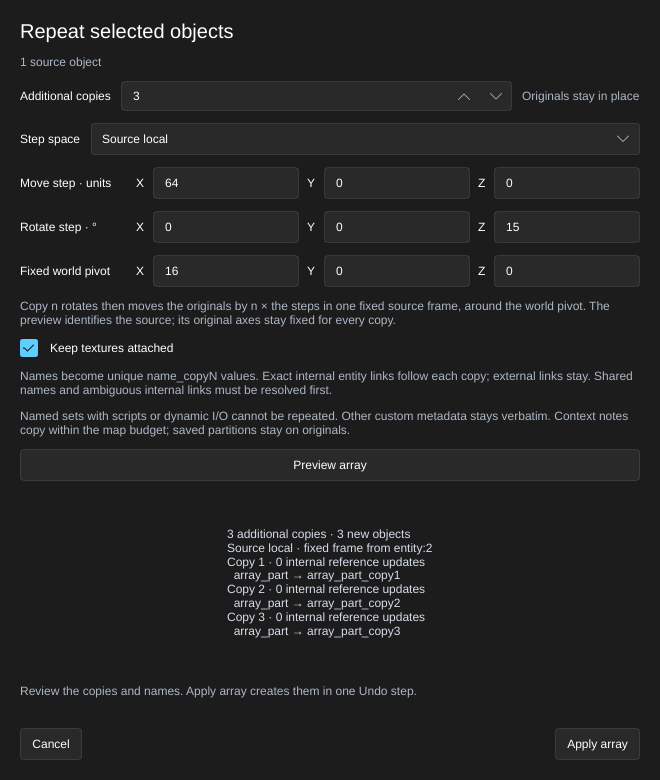
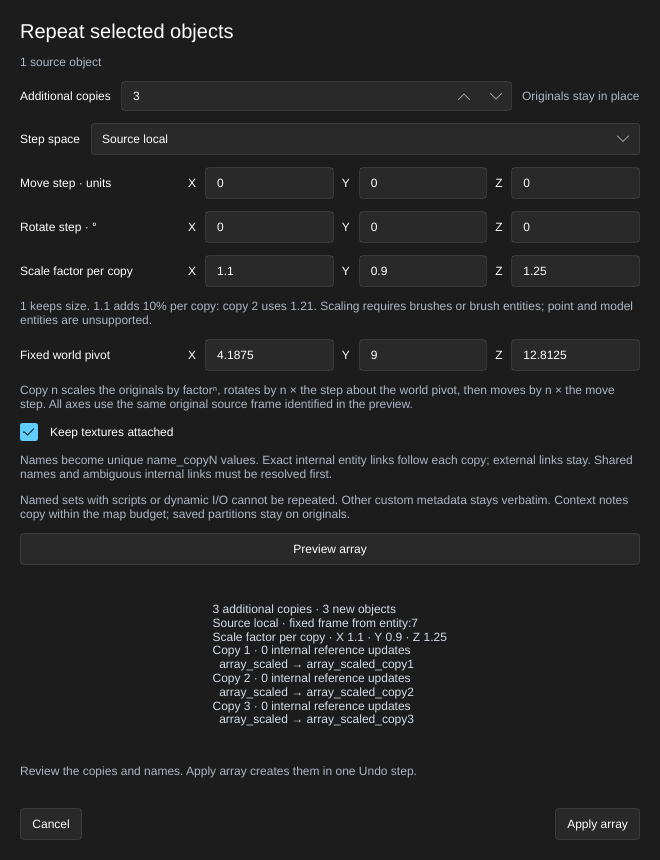
Complete shared authoring and preview integration - Correct owner-aware fixtures and preserve explicit Cancel - Share private engine mounts for native physics checks - Refresh feature manuals, status and showcase images

diff --git a/scripts/validate_prop_shadows_native.py b/scripts/validate_prop_shadows_native.py
@@ -44,7 +44,7 @@ def horizontal_pose(bounds):
 
 
 def compile_cases(args):
-    private = runtime.private_game(args.game_dir.resolve(), args.output / "fixture")
+    private = runtime.private_game(args.game_dir.resolve(), args.output / "fixture", engine_physics=True)
     metadata = json.loads(subprocess.check_output([
         str(args.fixture_helper.resolve()),
         str(args.game_dir.resolve() / "cstrike/gameinfo.txt"),
@@ -106,8 +106,12 @@ def worker(args):
     args.observe_seconds = 24
     runtime.capture_worker(args, "setpos -160 -160 8; setang 15 45 0; mat_fullbright")
     text = (private / "hammerr-runtime.log").read_text(errors="replace")
-    assert "sv_lan" in text and "= 1" in text, text[-4000:]
-    assert "Error Vertex File" not in text and "Error Index File" not in text and "Error Material" not in text, text[-4000:]
+    assert '"sv_lan" = "1"' in text, text[-4000:]
+    assert "Error Vertex File" not in text and "Error Index File" not in text, text[-4000:]
+    metadata = json.loads((args.output.parent / "fixture.json").read_text())
+    for material in metadata["materials"]:
+        name = material.removeprefix("materials/").removesuffix(".vmt")
+        assert f'error: material "{name.lower()}"' not in text.lower(), name
 
 
 def main():

diff --git a/scripts/validate_native_runtime.py b/scripts/validate_native_runtime.py
@@ -44,8 +44,16 @@ function HammeRRThink() {
 """
 
 
-def private_game(root, output, bsp=None):
+def private_game(root, output, bsp=None, *, engine_physics=False):
     game = output / "cstrike"
+    if engine_physics:
+        output.mkdir(parents=True, exist_ok=True)
+        library = output / "bin"
+        expected = (root / "bin").resolve(strict=True)
+        if not library.exists():
+            library.symlink_to(expected, target_is_directory=True)
+        if library.resolve(strict=True) != expected:
+            raise RuntimeError("Private physics fixture has an unexpected engine library path")
     for directory in [
         game / "maps",
         game / "cfg",

diff --git a/scripts/validate_bump_lighting.py b/scripts/validate_bump_lighting.py
@@ -36,11 +36,7 @@ def texture(pixels, size=32, normal=False):
 
 
 def assets(args):
-    game = runtime.private_game(args.game_dir.resolve(), args.output / "source-game")
-    library = game.parent / "bin"
-    if not library.exists():
-        library.symlink_to(args.game_dir.resolve() / "bin", target_is_directory=True)
-    assert library.resolve() == args.game_dir.resolve() / "bin"
+    game = runtime.private_game(args.game_dir.resolve(), args.output / "source-game", engine_physics=True)
     folder = game / "materials/hammerr"
     folder.mkdir(parents=True, exist_ok=True)
     (folder / "white.vtf").write_bytes(texture(bytes([255] * 32 * 32 * 4)))

diff --git a/scripts/validate_physics_surfaces.py b/scripts/validate_physics_surfaces.py
@@ -12,10 +12,7 @@ from validate_visibility import ROOM
 
 
 def assets(args):
-    game = runtime.private_game(args.game_dir.resolve(), args.output / "source-game")
-    library = game.parent / "bin"
-    if not library.exists():
-        library.symlink_to(args.game_dir.resolve() / "bin", target_is_directory=True)
+    game = runtime.private_game(args.game_dir.resolve(), args.output / "source-game", engine_physics=True)
     folder = game / "materials/hammerr"
     folder.mkdir(parents=True, exist_ok=True)
     for name in ["default", "ice", "rubber"]:

diff --git a/crates/render/src/models/tests.rs b/crates/render/src/models/tests.rs
@@ -180,6 +180,7 @@ fn failed_material_resolution_discards_old_bindings_and_repairs_with_the_same_ge
     entity.properties.set("origin", "0 0 0");
     let instance = Instance::new(&entity, current).unwrap();
     let mut vmf = Document::empty().vmf().clone();
+    vmf.world.properties.set("skyname", "");
     vmf.entities.push(entity.clone());
     let mut display = crate::MaterialLibrary::default();
     let scene = crate::SceneMesh::build_with_models(

diff --git a/crates/map-core/src/query.rs b/crates/map-core/src/query.rs
@@ -505,7 +505,7 @@ mod tests {
                     !solid
                         .sides
                         .iter()
-                        .all(|side| side.material.starts_with("tools/"))
+                        .all(|side| side.material.to_ascii_lowercase().starts_with("tools/"))
                 })
                 .unwrap()
                 .hit

diff --git a/crates/editor/src/working_region_ui.rs b/crates/editor/src/working_region_ui.rs
@@ -223,7 +223,7 @@ mod tests {
             "Use selection bounds",
             "Clear working region",
             "Apply",
-            "Close",
+            "Cancel",
         ] {
             crate::ui::tests::assert_dialog_button_visible(&controller.window, label);
         }

diff --git a/crates/map-core/src/repeat/tests.rs b/crates/map-core/src/repeat/tests.rs
@@ -1,5 +1,8 @@
 use super::*;
-use crate::context::{Note, Scope};
+use crate::{
+    BrushGeometry,
+    context::{Note, Scope},
+};
 use source_formats::vmf::Connection;
 
 fn options(count: u32) -> Options {

diff --git a/docs/status.md b/docs/status.md
@@ -22,14 +22,17 @@ HammeRR is in active development.
 | Overlapping selection | Alt+click and shared MCP operations cycle depth-ordered objects, brush owners and native groups, with model triangle picking and the same visibility rules as ordinary selection. The nearest 64 distinct hits are available; persistent selection filters and separate solid/group modes are planned. |
 | Polygon brushes | Convex and simple concave outlines, grid/exact corners, axis-aligned extrusion, materials and shared previews/Undo work. Oblique drawing planes and holes are planned. |
 | Surface placement | Shared floor/ceiling and picked-surface previews, mesh/terrain contact, normal alignment, offsets and one-step Undo work. Independent object settling, overlap resolution and physics placement are planned. |
-| Repeated placement | World and source-local translation/rotation arrays share previews, one captured original frame, unique generated names, checked internal-reference remapping and one-step Undo. Uncertain internal links and named source sets with scripts or dynamic I/O reject; scale arrays and surface sprinkle are unavailable. |
+| Repeated placement | World and source-local translation/rotation/brush-scale arrays share previews, one captured original frame, unique generated names, checked internal-reference remapping and one-step Undo. Uncertain internal links and named source sets with scripts or dynamic I/O reject; point/model scale arrays and surface sprinkle are unavailable. |
 | Hollow, carve and clip | Works for brushes. Terrain is rejected. |
 | Merge brushes | Guarded previews join 2–16 brushes into one convex brush, retaining outer face settings and one-step Undo. World brushes or children of one brush entity can merge; gaps, concave unions, mixed owners and terrain reject. |
 | Vertices, edges and faces | Brush component editing works. Terrain has separate vertex controls. |
-| Flat partitions | Works. Inward extrusion, free-form dividing lines and per-piece texture axes, fit and justification are planned. |
+| Flat partitions | Works. Per-piece materials, scale/shift/rotation, Fit and horizontal/vertical justification share owned plans and Undo. Inward extrusion, free-form dividing lines and new texture axes are planned. |
 | Materials and textures | Works. Failed asset discovery and material reads report errors; failed catalogs can be retried after content repairs. |
-| Asset reload (P11) | Partial. **Reload material assets** and MCP refresh cached VMT/VTF display data, sky faces and the material catalog through existing mounts, preserving map data, history and draft geometry. File watching, remounting, running-game caches and broader model/particle refresh remain unavailable. |
-| 2D sky preview | Six mounted static LDR faces render through authored sky surfaces in perspective Textured views, with shared controls and load diagnostics. Axis-aligned texture scale/translation and unequal face sizes work. 3D sky-camera regions, HDR, fog, exposure, animation and compiled visibility fidelity are unavailable. |
+| Asset reload (P11) | Partial. **Reload material assets** and MCP refresh cached VMT/VTF display data, sky faces and the material catalog through existing mounts, preserving map data, history and draft geometry. Cached model material candidates are resolved again without replacing geometry; particle definitions have a separate reload. File watching, remounting, FGD refresh and running-game caches remain unavailable. |
+| Working region | One temporary whole-object box shares desktop/MCP display and spatial filtering, paginated visibility reasons and reachable Clear. Saved visibility, source/history and build scope stay independent. Draw distance and arbitrary filter rules are unavailable. |
+| Fog preview | Explicit authored controller choice and static linear nonradial fog work in perspective Textured views. Invalid shared choices report issues without fog; unsupported modes, transitions, runtime I/O and native visual parity remain outside the preview. |
+| Particle effects | Active mounted manifests and binary-2/pcf-1 definitions support search, metadata inspection, reload and owned effect-name choices. Particle animation, viewport rendering and map-specific manifests are unavailable. |
+| 2D sky preview | Six mounted static LDR faces render through authored sky surfaces in perspective Textured views, with shared controls and load diagnostics. Axis-aligned texture scale/translation and unequal face sizes work. 3D sky-camera regions, HDR, sky fog, exposure, animation and compiled visibility fidelity are unavailable. |
 | Entities, connections and renaming | Works. |
 | Map checks | Geometry, IDs, textures, entity logic, asset paths, face-linked material/texture errors, terrain metadata and authored spawn clearance against static brushes/world/detail terrain. Models, compiler LOD changes, runtime placement, objectives, full dependencies and engine limits are planned. |
 | Terrain (displacements) | Creation, chosen corners, resolution edits, sculpting, blend paint, full/half-edge and corner-only sewing across grid resolutions and collision/border-shading controls and per-triangle walkability/buildability work with guarded previews and Undo. Viewport center picking and framing follow displaced terrain. Native triangle subsets retain checks across surfaces, with viewport picks, yellow outlines and framing. Retained triangle unions or exact checked vertices can mask sculpting and blend edits, with cyan vertex guides, picking, framing and box selection. Volume/marquee matching follows actual sheets, and volume boxes select native triangle subsets. Indexed paint/texture strokes also pick displaced surfaces instead of parent boxes. Compatible mixed-power full and whole-to-half edges compile with native LOD masks and snapping. Live sculpt/blend strokes share bounded paths, masks, radius guides, owned review and one-step Undo. Exact world XYZ vertex movement and viewport axis/plane/screen handles share owned previews, masks, grid snapping and Undo. Connected full-edge base-cage subdivision generates editable rounded grids. Half-edge cage subdivision, other partial spans and restricted-topology remapping remain planned. |
@@ -45,18 +48,18 @@ HammeRR is in active development.
 | Compile regions | One native axis-aligned region, shared preview/review/cancel, Undo and save/reopen; whole brushes/terrain, contained world water, complete imported overlays and contained portals/windows/occluders; six black sealing slabs, retained sun/water controls and frozen build scope; effective imported-box framing/guides | Multiple active regions, crossing terrain/water/helpers, runtime-model terrain, detail/model water, slime, overlay transitions, instances and visclusters; every overlay target and window model must remain available; plural records need explicit Clear before replacement |
 | Build recipes | Fast preview and Final lighting presets, up to 32 persistent named custom settings, shared create/edit/delete/apply controls and recipe identity captured at build start | Arbitrary commands, extra or reordered compiler stages and output-path recipes; the compiler's existing limits still apply |
 | Visibility | Fast conservative sets or Detailed portal separator clipping, with checked apertures and bounded parallel portal-facing rows and source flow; authored finite hint priority and remaining open-leaf cuts; visible/audible sets, sky visibility, areaportals, distance-fading windows and checked native occluder polygons/indices/areas from up to sixteen brushes with separated world bounds and active/deactivate/activate/toggle culling | Touching/overlapping occluder CSG, area transitions and broader map coverage |
-| Lighting | Fullbright; Direct LDR for static, switchable and animated point/spot lights, one sun and sky ambient; directional normal-map lightmaps, soft sun, Fast/Balanced/Detailed sampling, percentage falloff, opaque brush/terrain/static-prop mesh shadows across direct, sky, bounced and ambient rays, terrain, pivot-aware direct brush-entity maps with self shadows, scoped world/model brush groups or optional angle smoothing, including partial-edge junctions and up to four style-preserving diffuse world/terrain-source bounces into world/model receivers; conservative point/spot visibility and exact-range culling | Adaptive sampling, HDR, transparent shadows, second-normal-map-only materials, model relighting/reflected sources and baked prop lightmaps |
-| Model ambient | LDR cubes from filtered local world/terrain lightmaps and sky with opaque static-prop mesh occlusion, with up to 1/4/8 safe probes per open leaf by quality; legacy and indexed LDR/HDR data preservation | Adaptive refinement, switching ambient cubes, probes below terrain sheets |
+| Lighting | Fullbright; Direct LDR for static, switchable and animated point/spot lights, one sun and sky ambient; directional normal-map lightmaps, soft sun, Fast/Balanced/Detailed sampling, percentage falloff, opaque brush/terrain/static-prop mesh shadows and requested bounded prop alpha-test cutouts across direct, sky, bounced and ambient rays, terrain, pivot-aware direct brush-entity maps with self shadows, scoped world/model brush groups or optional angle smoothing, including partial-edge junctions and up to four style-preserving diffuse world/terrain-source bounces into world/model receivers; conservative point/spot visibility and exact-range culling | Adaptive sampling, HDR, fractional/translucent shadows, second-normal-map-only materials, model relighting/reflected sources and baked prop lightmaps |
+| Model ambient | LDR cubes from filtered local world/terrain lightmaps and sky with opaque and requested alpha-test static-prop mesh occlusion, with up to 1/4/8 safe probes per open leaf by quality; legacy and indexed LDR/HDR data preservation | Adaptive refinement, switching ambient cubes, probes below terrain sheets |
 | Physics | World, clips, brush entities, water and terrain, using CS:S's own collision library; world/terrain triangle surface properties, per-face brush-model surfaces and vertical platform/prop contact | Blended secondary surface properties, density and compiler-derived masses, rotating/blocking contact and broader moving bodies |
 | Brush entities | Explicit and origin-brush pivots; sliding and rotating doors, rotating brushes, triggers and linear platforms carrying physics props | Rotating/blocking contact and broader behavior coverage and independently rotated initial lighting poses |
 | Water | Flat world water, fog regions, floating objects | Depth and below-water materials, currents, water in detail brushes or brush entities |
 | Cubemaps | Sample positions and sizes | Baked reflections |
-| Static props | Models, transforms, collision, skins, fading, named lighting origins; bounded [opaque LOD0 mesh shadows](prop-shadows.md) with native disabled-shadow flags, selected-material warnings and checked asset failures | Texture-alpha/translucent shadows, per-vertex/per-texel prop lighting, reflected prop sources, animated-prop shadows and exact placement in the BSP tree |
+| Static props | Models, transforms, collision, skins, fading, named lighting origins; bounded [opaque or requested alpha-test LOD0 mesh shadows](prop-shadows.md) with native disabled-shadow flags, selected-material warnings and checked asset failures | Fractional/translucent shadows, per-vertex/per-texel prop lighting, reflected prop sources, animated-prop shadows and exact placement in the BSP tree |
 | Terrain | World/func_detail power 2/3/4 surfaces, collision, matching full-edge and corner-only links, full/half-edge LOD masks/snapping, saved subdivided grids, authored border shading and shared vertex normals | Other fractional spans, half-edge cage subdivision, removed triangles |
-| Overlays | Fit new projections to one world/detail quad or explicitly refit an existing single-face projection on the same entity, with owned previews, material browsing, corner guides and atomic Apply/Cancel; imported world/detail/terrain projections, render order, fades and named accessors | New face bindings, multiple-face/terrain/model creation or refitting, corner handles, viewport material projection, geometry rebinding, transitions and decals |
+| Overlays | Fit new projections to one world/detail quad or explicitly refit/rebind an existing single-face projection on the same entity, with owned previews, material browsing, corner guides and atomic Apply/Cancel; imported world/detail/terrain projections, render order, fades and named accessors | Multiple-face/terrain/model creation or refitting, corner handles, viewport material projection, automatic geometry rebinding, transitions and decals |
 
 ## Next
 
-**Editor:** broader clipboard formats and metadata transfer, free-form flat partitions, inward extrusion, per-piece texture editing, terrain clipping and authoring, broader model formats and poses and broader map checks.
+**Editor:** broader clipboard formats and metadata transfer, free-form flat partitions, inward extrusion, new partition texture axes, terrain clipping and authoring, broader model formats and poses and broader map checks.
 
 **Compiler:** HDR, broader physics collision, broader terrain topology, prop lighting, brush-model overlays and water transitions.

diff --git a/docs/development.md b/docs/development.md
@@ -6,7 +6,7 @@
 
 | Path | Contents |
 | --- | --- |
-| `crates/source-formats` | Valve file formats (VMF, BSP, VPK, VMT, VTF, FGD, MDL, KeyValues) and the game filesystem. |
+| `crates/source-formats` | Valve file formats (VMF, BSP, VPK, VMT, VTF, FGD, MDL, DMX/PCF, KeyValues) and the game filesystem. |
 | `crates/map-core` | Geometry, terrain, the undoable map document, edits and picking. |
 | `crates/render` | The wgpu renderer, materials, camera and offscreen snapshots. |
 | `crates/editor-core` | The shared editing session, application runtime, optional MCP server and `hammerr-headless`. No Slint dependency. |
@@ -118,16 +118,17 @@ python3 -B scripts/validate_headless.py --output /tmp/hammerr-headless-check
 | Area | Scripts |
 | --- | --- |
 | Application startup and shutdown | `headless` (edit/history, save/reopen, compile, lazy graphics and exit recovery; `--desktop-binary` compares both executable tool inventories, and `--baseline` compares a saved `tools/list` array sorted by name) |
-| Viewing and selection | `view_modes`, `saved_views`, `sky_preview`, `volume_selection`, `paint_selection`, `object_picking`, `map_statistics`, `pointfiles` |
+| Viewing and selection | `view_modes`, `saved_views`, `sky_preview`, `volume_selection`, `paint_selection`, `object_picking`, `working_region`, `fog_preview`, `map_statistics`, `pointfiles` |
 | Brushes and transforms | `geometry_tools`, `texture_lock_modes`, `brush_reflection`, `brush_shear`, `transform_display`, `precision_cycles`, `polygon_brushes`, `surface_placement`, `repeat_array` |
 | Hollow, carve, merge and clip | `hollow`, `carving`, `carve_many`, `merge`, `clip_handles` |
 | Vertices, edges and faces | `components`, `component_sources`, `component_picking`, `component_topology`, `component_transforms`, `component_creases`, `weld_texture_attachment`, `split_texture_attachment`, `roof_texture_attachment` |
 | Flat partitions | `component_partitions`, `partition_picking`, `saved_partitions`, `partition_material_metadata`, `partition_materials`, `partition_textures`, `adjusted_partition_ridges`, `boundary_partitions`, `polygon_partitions`, `partition_extrusion`, `partition_visibility` |
 | Materials and textures | `face_lighting`, `material_replacement`, `material_favorites`, `material_reload`, `surface_group`, `texture_strokes`, `texture_chain` |
 | Map checks | `spawn_clearance`, `audit_fixes` |
+| Particle definitions | `particles` (active manifest discovery, bounded binary DMX parsing, metadata, owned choices and retryable errors) |
 | Local preferences | `recent_maps`, `build_recipes` |
 | Compiler | `compile_jobs`, `authored_planes`, `visibility`, `portal_flow`, `parallel_visibility`, `hints`, `sky_visibility`, `origin_brushes`, `cubemap_samples`, `water_metadata`, `direct_lighting`, `bounced_lighting`, `brush_smoothing`, `smoothing_angle`, `spotlights`, `direct_sky`, `shadow_index`, `engine_physics`, `physics_surfaces`, `static_props`, `terrain`, `terrain_creation`, `terrain_normals` |
-| In game | `native_runtime`, `brush_runtime`, `vphysics_backend` |
+| In game | `prop_shadows_native` (optional `--runtime`), `native_runtime`, `brush_runtime`, `vphysics_backend` |
 
 `transform_display` also checks `preview_snap_to_grid`: fractional negative world bounds-minimum anchors, mixed selections, shared texture-lock policy, source/history preservation, Apply/Cancel, aligned no-ops, model-reload cancellation and exact typed transforms with snapping enabled.
 
@@ -595,7 +596,7 @@ python3 -B scripts/validate_overlay_authoring.py --binary target/debug/hammerr-h
 ```
 
 These checks cover real tilted world/detail corners, shared imported projection
-validation, same-binding refit with raw metadata and entity identity retained,
+validation, same-binding refit and explicit destination rebinding with raw metadata and entity identity retained,
 ownership/review, stale source/selection guards, material browsing and read
 errors, Apply/Cancel/Undo and exact shared native output. `--render` captures the
 shared outline; `--runtime` compares a fully MCP-created floor projection with absent
@@ -659,3 +660,55 @@ omit it for GPU-independent checks. No desktop input or game launch is used.
 The shared script `Client.render_result` returns PNG bytes and metadata from one
 render response. `Client.render` continues to save the PNG and return its
 checksum for existing checks.
+
+### Working regions, fog and particle definitions
+
+```sh
+cargo test -p editor-core --features mcp --lib working_region
+cargo test -p editor-core --features mcp --lib fog_
+cargo test -p source-formats --lib particle
+cargo test -p editor-core --features mcp --lib particles
+python3 -B scripts/validate_working_region.py --binary target/debug/hammerr-headless --output /tmp/hammerr-working-region-check --render
+python3 -B scripts/validate_fog_preview.py --binary target/debug/hammerr-headless --gameinfo "/path/to/cstrike/gameinfo.txt" --output /tmp/hammerr-fog-check
+python3 -B scripts/validate_particles.py --binary target/debug/hammerr-headless --output /tmp/hammerr-particles-check
+```
+
+Working-region checks cover whole-owner bounds, authored hiding, model/terrain
+bounds, shared query exclusion, stale guards and unchanged saved source/history
+and synchronous/background BSPs. `--render` compares persistent-renderer output
+before filtering and after Clear. Fog checks compare known-depth pixels with the
+linear-space ramp, disabled and unsupported states, temporary overrides and
+shared settings. Particle checks cover active manifests, definition metadata,
+owned choices, changed-file rejection, reload and failed-load retry.
+
+Software UI checks run on the private testing backend and save captures when
+`HAMMERR_UI_SNAPSHOTS` names an existing directory:
+
+```sh
+cargo test -p editor --bin editor working_region_controls_apply_inspected_bounds_reject_invalid_input_and_clear_empty_view
+cargo test -p editor --bin editor fog_preview_controls_choose_apply_cancel_and_reject_stale_or_unsupported_settings
+cargo test -p editor --bin editor particle_browser_shares_search_review_apply_cancel_and_software_screenshot
+cargo test -p editor --bin editor partition_texture_controls_share_preview_inheritance_keep_cancel_and_undo
+```
+
+The existing `repeat_array`, `partition_textures`, `overlay_authoring` and
+`material_reload` scripts also cover per-copy brush scaling, Fit/Justify,
+explicit overlay rebinding and cached model material-path changes. Model checks
+retain geometry and bounds through path failure/repair and account for held
+asset references within the cache budget.
+
+### Requested static-prop cutout shadows
+
+```sh
+cargo test -p compiler --test prop_shadows
+cargo test -p compiler --lib lighting::props
+cargo build -p compiler --example prop_shadow_fixture
+python3 -B scripts/validate_prop_shadows.py --binary target/debug/hammerr-headless --output /tmp/hammerr-prop-shadow-check
+python3 -B scripts/validate_prop_shadows_native.py --binary target/debug/hammerr-headless --output /tmp/hammerr-prop-cutout-check --runtime
+```
+
+The native fixture copies one mounted fence model and its companions into private
+content, changes the copy's texture-shadow flag and material, and compares opaque
+and alpha-tested builds from unchanged source. Assertions require both newly lit
+and still blocked floor luxels; optional runtime captures use the existing private
+display with `-insecure` and `sv_lan 1`. No installed game asset is modified.

diff --git a/README.md b/README.md
@@ -83,7 +83,7 @@ Setup details, conventions and the full tool list are in [AI agents and MCP](doc
 | Repeated placement |
 | --- |
 | ![Repeated placement array preview and controls](docs/images/repeat-array.png) |
-| Repeat selections in world or source-local axes, then apply all copies in one Undo step. |
+| Repeat selections in world or source-local axes, with brush scale factors and one Undo step. |
 
 [Brushes and transforms →](docs/brushes.md) · [Hollow, carve and clip →](docs/brush-tools.md)
 
@@ -147,6 +147,11 @@ Setup details, conventions and the full tool list are in [AI agents and MCP](doc
 | ![Wireframe view with a light helper](docs/images/wireframe-view.png) | ![Named camera views](docs/images/saved-views.png) |
 | Textured, flat, wireframe, lightmap density and smoothing groups, in every projection. | Name camera positions and jump back to them. They are saved in the map. |
 
+| Working region | Fog preview |
+| --- | --- |
+| ![Working-region bounds and visibility controls](docs/images/working-region.png) | ![Authored fog controller and preview settings](docs/images/fog-preview.png) |
+| Focus the editor on whole objects touching a temporary box, with shared visibility reasons. | Choose an authored controller to preview static linear fog in perspective Textured views. |
+
 | 2D sky preview |
 | --- |
 | ![The selected sky rendered through sky surfaces](docs/images/sky-preview.png) |
@@ -155,6 +160,11 @@ Setup details, conventions and the full tool list are in [AI agents and MCP](doc
 [Editor basics →](docs/basics.md) · [Selecting →](docs/selection.md)
 
 ### Entities and logic
+
+| Particle effects |
+| --- |
+| ![Particle definitions and effect-name choices](docs/images/particle-browser.png) |
+| Search active particle systems, inspect their definitions and choose effects for entities. |
 
 | Connections | Safe renaming |
 | --- | --- |
@@ -219,7 +229,7 @@ Also: a typed inspector with color pickers, brightness sliders and spawn flags; 
 | Native compiler | Play in CS:S |
 | --- | --- |
 | ![Build settings, statistics and diagnostics](docs/images/build-status.png) | ![Soft sun shadows in Counter-Strike: Source](docs/images/soft-sun.png) |
-| Baked light from point lights, spotlights, sun and sky, with soft sun and opaque model shadows, plus CS:S engine physics with world, terrain and brush-model material surfaces, water, cubemaps, static props and terrain. | **Run Map** compiles and launches the game. Builds run in the background and never overwrite good output with a failed one. |
+| Compile playable maps with baked lighting, CS:S engine physics, water, props and terrain. | **Run Map** compiles and launches the game. Builds run in the background and never overwrite good output with a failed one. |
 
 | Named build recipes |
 | --- |
@@ -328,6 +338,11 @@ Also: a typed inspector with color pickers, brightness sliders and spawn flags; 
 | ![Four diffuse bounces beneath a shelf in Counter-Strike: Source](docs/images/four-bounce-on.png) |
 | Add up to four diffuse light bounces from world surfaces and terrain. |
 
+| Static-prop cutout shadows |
+| --- |
+| ![Baked light passing through a fence model's cutout texture](docs/images/prop-shadow-cutouts.png) |
+| Bake shadows through alpha-test cutouts on supported static props. |
+
 | Hint planes |
 | --- |
 | ![Hint face and skip bounds in the editor](docs/images/hint-planes.png) |
@@ -336,7 +351,7 @@ Also: a typed inspector with color pickers, brightness sliders and spawn flags; 
 | Overlays |
 | --- |
 | ![Fitted overlay controls with material preview and source corners](docs/images/overlay-authoring.png) |
-| Fit or refit surface markings on world/detail faces, preserving materials, order, fades and entity links. |
+| Fit, refit or explicitly rebind markings on world/detail faces while retaining settings and entity links. |
 
 [Overlays →](docs/overlays.md)
 

diff --git a/docs/README.md b/docs/README.md
@@ -19,22 +19,25 @@ New to HammeRR? Read [Getting started](getting-started.md) and [Editor basics](b
 | [Brushes and transforms](brushes.md) | Drawing brushes, handles, exact transforms, mirror, shear, brush shapes |
 | [Polygon brushes](polygon-brushes.md) | Drawing convex or concave outlines and extruding editable brushes |
 | [Surface placement](placement.md) | Dropping groups to floors or ceilings, picking targets, normal alignment and offsets |
-| [Repeated placement](repeated-placement.md) | Previewing translation and rotation arrays with copied names and internal links |
+| [Repeated placement](repeated-placement.md) | Previewing translation, rotation and brush-scale arrays with copied names and internal links |
 | [Hollow, carve and clip](brush-tools.md) | Turning solids into rooms, subtracting shapes, cutting brushes with a plane |
 | [Merge brushes](merge.md) | Joining brushes whose combined volume is convex, with retained outer face settings |
 | [Vertices, edges and faces](components.md) | Moving, scaling, rotating, welding, splitting and roof ridges |
 | [Flat partitions](partitions.md) | Dividing a face into pieces to raise, extrude or restyle them |
 | [Materials and textures](textures.md) | Material browser, texture editing, sampling, wrapping, painting, replacement, face lighting |
+| [Working region](working-region.md) | Temporary whole-object display bounds and visibility reasons |
+| [Fog preview](fog.md) | Choosing an authored static fog controller for perspective Textured views |
 | [2D sky preview](sky.md) | Previewing the selected mounted sky through authored sky surfaces |
 | [Terrain](terrain.md) | Creating, sculpting, blending, sewing, shading and selecting terrain triangles |
 | [Overlays](overlays.md) | Compiling imported surface projections, material, render order and distance fading |
 | [Models](models.md) | Static mesh previews, skin materials, bounds, picking and model inspection |
+| [Particle effects](particles.md) | Active manifest definitions, metadata and guarded effect-name choices |
 | [Sounds](sounds.md) | Sound files and script names, audition, volume and entity assignment |
 | [Entities and logic](entities.md) | Placing entities, lights, brush entities, inputs/outputs, safe renaming, editing many entities |
 | [Organizing and checking maps](map-tools.md) | Finding objects, visibility, statistics, map checks, design notes, autosave and recovery |
 | [Compile and play](compile-and-play.md) | Building BSPs, lighting, physics, leaks, launching Counter-Strike: Source |
 | [Compile regions](compile-regions.md) | Previewing and saving bounds for sealed partial-map builds |
-| [Static-prop shadows](prop-shadows.md) | Opaque model-mesh blockers, shadow flags and material limits |
+| [Static-prop shadows](prop-shadows.md) | Opaque and requested alpha-test model blockers, shadow flags and material limits |
 | [Occluders](occluders.md) | Compiling static visibility blockers and their native activation records |
 | [Build recipes](build-recipes.md) | Recalling Fast preview, Final lighting and named custom compiler settings |
 
